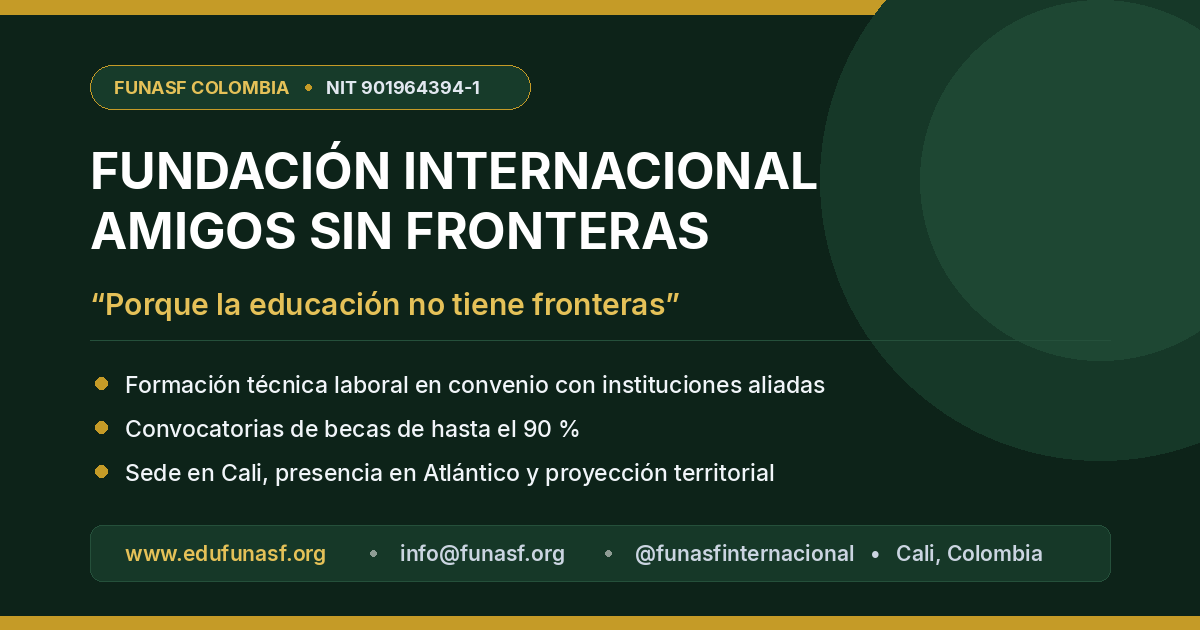
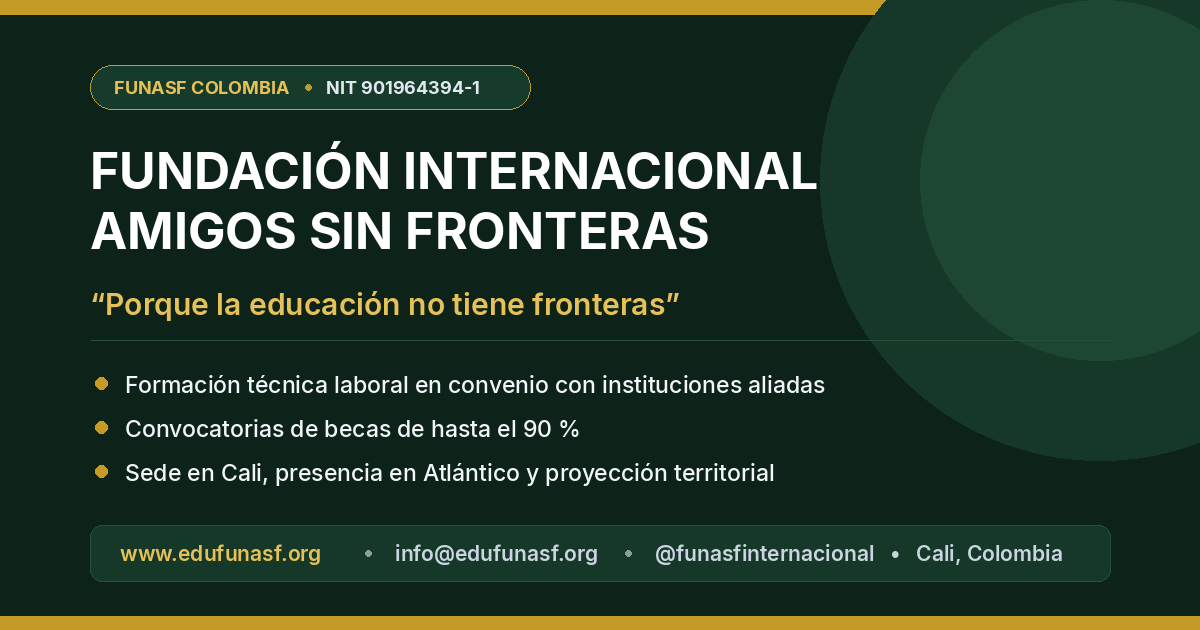
fix: update email addresses to use new domain edufunasf.org

Changed region(s): [[0.3083, 0.8444, 0.8942, 0.9048], [0.0925, 0.8444, 0.2775, 0.9048]]

diff --git a/src/routes/admin/usuarios/index.tsx b/src/routes/admin/usuarios/index.tsx
@@ -36,21 +36,21 @@ export const Route = createFileRoute("/admin/usuarios/")({
 const DEMO_USUARIOS: UserProfile[] = [
   {
     id: "user-1",
-    email: "admin@funasf.org",
+    email: "admin@edufunasf.org",
     nombre_completo: "Dirección Ejecutiva",
     rol: "admin",
     avatar_url: null,
   },
   {
     id: "user-2",
-    email: "comunicaciones@funasf.org",
+    email: "comunicaciones@edufunasf.org",
     nombre_completo: "Equipo de Comunicaciones",
     rol: "editor",
     avatar_url: null,
   },
   {
     id: "user-3",
-    email: "admisiones@funasf.org",
+    email: "admisiones@edufunasf.org",
     nombre_completo: "Coordinación Académica",
     rol: "editor",
     avatar_url: null,

diff --git a/src/data/funasf.ts b/src/data/funasf.ts
@@ -22,7 +22,7 @@ export const org = {
   ciudadPrincipal: "Cali, Valle del Cauca — Colombia",
   direccionPrincipal: "CR 96 45 119, Cali",
   telefonos: ["313 577 9384", "318 915 7015", "323 294 6184", "317 165 7124"],
-  correo: "info@funasf.org",
+  correo: "info@edufunasf.org",
   sitioWeb: "www.edufunasf.org",
   instagram: "@funasfinternacional",
   instagramUrl: "https://instagram.com/funasfinternacional",

diff --git a/src/routes/admin/login.tsx b/src/routes/admin/login.tsx
@@ -106,7 +106,7 @@ function AdminLogin() {
                   <Input
                     id="email"
                     type="email"
-                    placeholder="admin@funasf.org"
+                    placeholder="admin@edufunasf.org"
                     value={email}
                     onChange={(e) => setEmail(e.target.value)}
                     required
